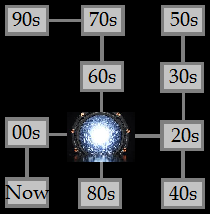
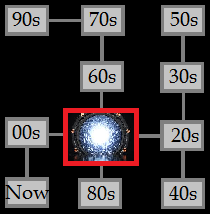
Added changing map picture

Changed region(s): [[0.2857, 0.5047, 0.6857, 0.785]]

diff --git a/src/mainwindow.cpp b/src/mainwindow.cpp
@@ -54,17 +54,17 @@ MainWindow::~MainWindow() {
 
 void MainWindow::createTimezones()  {
 
-    this->tzPortal = new TZPortal("Time-Portal", "portal.jpg");
-    this->tz20s = new TZ20("Twenties", "twenties.jpg");
-    this->tz30s = new TZ30("Thirties", "thirties.jpg");
-    this->tz40s = new TZ40("Fourties", "fourties.jpg");
-    this->tz50s = new TZ50("Fifties", "fifties.jpg");
-    this->tz60s = new TZ60("Sixties", "sixties.png");
-    this->tz70s = new TZ70("Seventies", "seventies.jpg");
-    this->tz80s = new TZ80("Eighties", "eighties.jpg");
-    this->tz90s = new TZ90("Nineties", "nineties.jpg");
-    this->tz00s = new TZ00("Noughties", "noughties.jpg");
-    this->tzPresent = new TZPresent("Present Day", "today.jpg");
+    this->tzPortal = new TZPortal("Time-Portal", "portal.jpg", "map.png");
+    this->tz20s = new TZ20("Twenties", "twenties.jpg", "map-20s.png");
+    this->tz30s = new TZ30("Thirties", "thirties.jpg", "map-30s.png");
+    this->tz40s = new TZ40("Fourties", "fourties.jpg", "map-40s.png");
+    this->tz50s = new TZ50("Fifties", "fifties.jpg", "map-50s.png");
+    this->tz60s = new TZ60("Sixties", "sixties.png", "map-60s.png");
+    this->tz70s = new TZ70("Seventies", "seventies.jpg", "map-70s.png");
+    this->tz80s = new TZ80("Eighties", "eighties.jpg", "map-80s.png");
+    this->tz90s = new TZ90("Nineties", "nineties.jpg", "map-90s.png");
+    this->tz00s = new TZ00("Noughties", "noughties.jpg", "map-00s.png");
+    this->tzPresent = new TZPresent("Present Day", "today.jpg", "map-present.png");
 
     // (N, E, S, W)
     this->tzPortal->setExits(tz60s, tz20s, tz80s, tz00s);
@@ -119,13 +119,20 @@ void MainWindow::setCurrentTimezone(Timezone *tz) {
             this->currentTimezone = tz;
 
             //getTimezoneWidget is a virtual method
-             ui->gridLayout->addWidget(currentTimezone->getTimezoneWidget());
 
+             ui->gridLayout->addWidget(currentTimezone->getTimezoneWidget());
+             setMapImage(currentTimezone->getMapPath());
 
         } else {
             this->setInformationText("This room is currently locked. Please find token first.");
         }
     }
+}
+
+void MainWindow::setMapImage(QString mapImage) {
+    QString resource = ":Resources/" + mapImage;
+    QPixmap image(resource);
+    ui->map_label->setPixmap(image);
 }
 
 void MainWindow::setBackgroundImage(QString fileName) {
@@ -144,12 +151,6 @@ void MainWindow::setInformationText(QString txt) {
         ui->txtInfo->repaint();
         QThread::msleep(16);
     }
-}
-
-void MainWindow::setMapImage(QString mapImage) {
-    QString qstr = ":Resources/" + mapImage;
-    QPixmap pix(qstr);
-    ui->map_label->setPixmap(pix);
 }
 
 void MainWindow::setupSignalsAndSlots() {

diff --git a/include/Timezone.h b/include/Timezone.h
@@ -17,13 +17,14 @@ class Timezone {
 private:
     QString description;
     QString imagePath;
+    QString mapPath;
     QString exitString();
 
     map<string, Timezone*> exits;
     vector <Item> itemsInTimezone;
 
 public:
-    Timezone(QString description, QString path);
+    Timezone(QString description, QString path, QString mapPath);
 
     Timezone* getNorthTimezone();
     Timezone* getSouthTimezone();
@@ -44,6 +45,7 @@ public:
     // GETTERS
     QString getTZImage();
     QString getImagePath();
+    QString getMapPath();
 
     // VIRTUAL METHODS
     virtual ~Timezone() {}

diff --git a/src/Timezone.cpp b/src/Timezone.cpp
@@ -2,13 +2,18 @@
 #include "include/Command.h"
 
 
-Timezone::Timezone(QString description, QString path) {
+Timezone::Timezone(QString description, QString path, QString mapPath) {
 	this->description = description;
     this->imagePath = path;
+    this->mapPath = mapPath;
 }
 
 QString Timezone::getTZImage() {
     return this->imagePath;
+}
+
+QString Timezone::getMapPath() {
+    return this->mapPath;
 }
 
 void Timezone::setExits(Timezone *north, Timezone *east, Timezone *south, Timezone *west) {

diff --git a/include/tzpresent.h b/include/tzpresent.h
@@ -10,7 +10,7 @@ class TZPresent : public Timezone
 {
 public:
     tzpresentwidget *widget;
-    TZPresent(QString description, QString image):Timezone(description, image)
+    TZPresent(QString description, QString image, QString mapImage):Timezone(description, image, mapImage)
     {
         widget = new tzpresentwidget();
         // Don't need to do anything

diff --git a/include/tzportal.h b/include/tzportal.h
@@ -9,7 +9,7 @@ class TZPortal: public Timezone
 {
 public:
     tzportalwidget *widget;
-    TZPortal(QString description, QString image):Timezone(description, image)
+    TZPortal(QString description, QString image, QString mapImage):Timezone(description, image, mapImage)
     {
         widget = new tzportalwidget();
         // Don't need to do anything

diff --git a/include/tz60.h b/include/tz60.h
@@ -10,8 +10,7 @@ class TZ60 : public Timezone
 {
 public:
     tz60widget *widget;
-    TZ60(QString description, QString image):
-        Timezone(description, image)
+    TZ60(QString description, QString image, QString mapImage):Timezone(description, image, mapImage)
     {
         widget = new tz60widget();
         // Don't need to do anything

diff --git a/include/tz30.h b/include/tz30.h
@@ -10,7 +10,7 @@ class TZ30 : public Timezone
 {
 public:
     tz30widget *widget;
-    TZ30(QString description, QString image):Timezone(description, image)
+    TZ30(QString description, QString image, QString mapImage):Timezone(description, image, mapImage)
     {
         widget = new tz30widget();
         // Don't need to do anything

diff --git a/include/tz40.h b/include/tz40.h
@@ -10,7 +10,7 @@ class TZ40 : public Timezone
 {
 public:
     tz40widget *widget;
-    TZ40(QString description, QString image):Timezone(description, image)
+    TZ40(QString description, QString image, QString mapImage):Timezone(description, image, mapImage)
     {
         widget = new tz40widget();
         // Don't need to do anything

diff --git a/include/tz50.h b/include/tz50.h
@@ -10,7 +10,7 @@ class TZ50 : public Timezone
 {
 public:
     tz50widget *widget;
-    TZ50(QString description, QString image):Timezone(description, image)
+    TZ50(QString description, QString image, QString mapImage):Timezone(description, image, mapImage)
     {
         widget = new tz50widget();
         // Don't need to do anything

diff --git a/include/tz70.h b/include/tz70.h
@@ -10,7 +10,7 @@ class TZ70 : public Timezone
 {
 public:
     tz70widget *widget;
-    TZ70(QString description, QString image):Timezone(description, image)
+    TZ70(QString description, QString image, QString mapImage):Timezone(description, image, mapImage)
     {
         widget = new tz70widget();
         // Don't need to do anything

diff --git a/include/tz80.h b/include/tz80.h
@@ -10,7 +10,7 @@ class TZ80 : public Timezone
 {
 public:
     tz80widget *widget;
-    TZ80(QString description, QString image):Timezone(description, image)
+    TZ80(QString description, QString image, QString mapImage):Timezone(description, image, mapImage)
     {
         widget = new tz80widget();
         // Don't need to do anything

diff --git a/include/tz90.h b/include/tz90.h
@@ -10,7 +10,7 @@ class TZ90 : public Timezone
 {
 public:
     tz90widget *widget;
-    TZ90(QString description, QString image):Timezone(description, image)
+    TZ90(QString description, QString image, QString mapImage):Timezone(description, image, mapImage)
     {
         widget = new tz90widget();
         // Don't need to do anything
